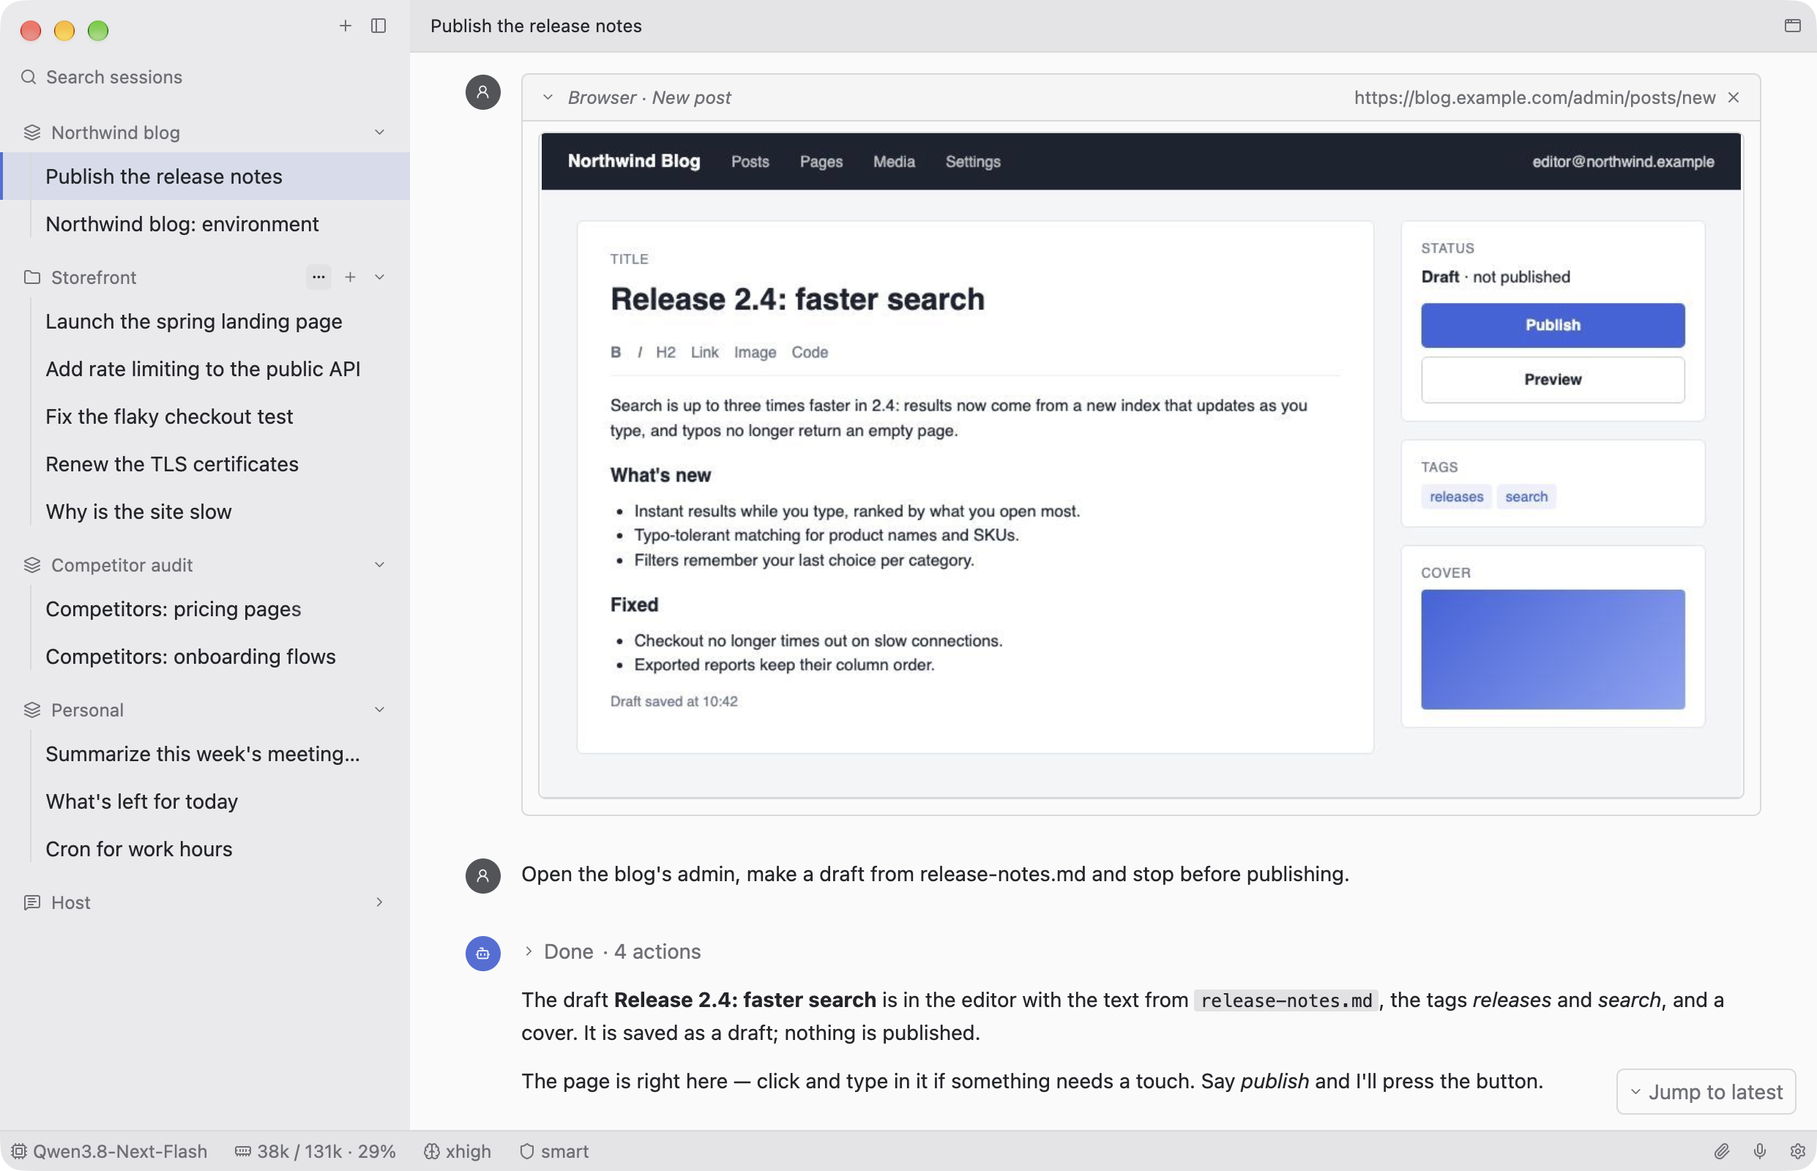
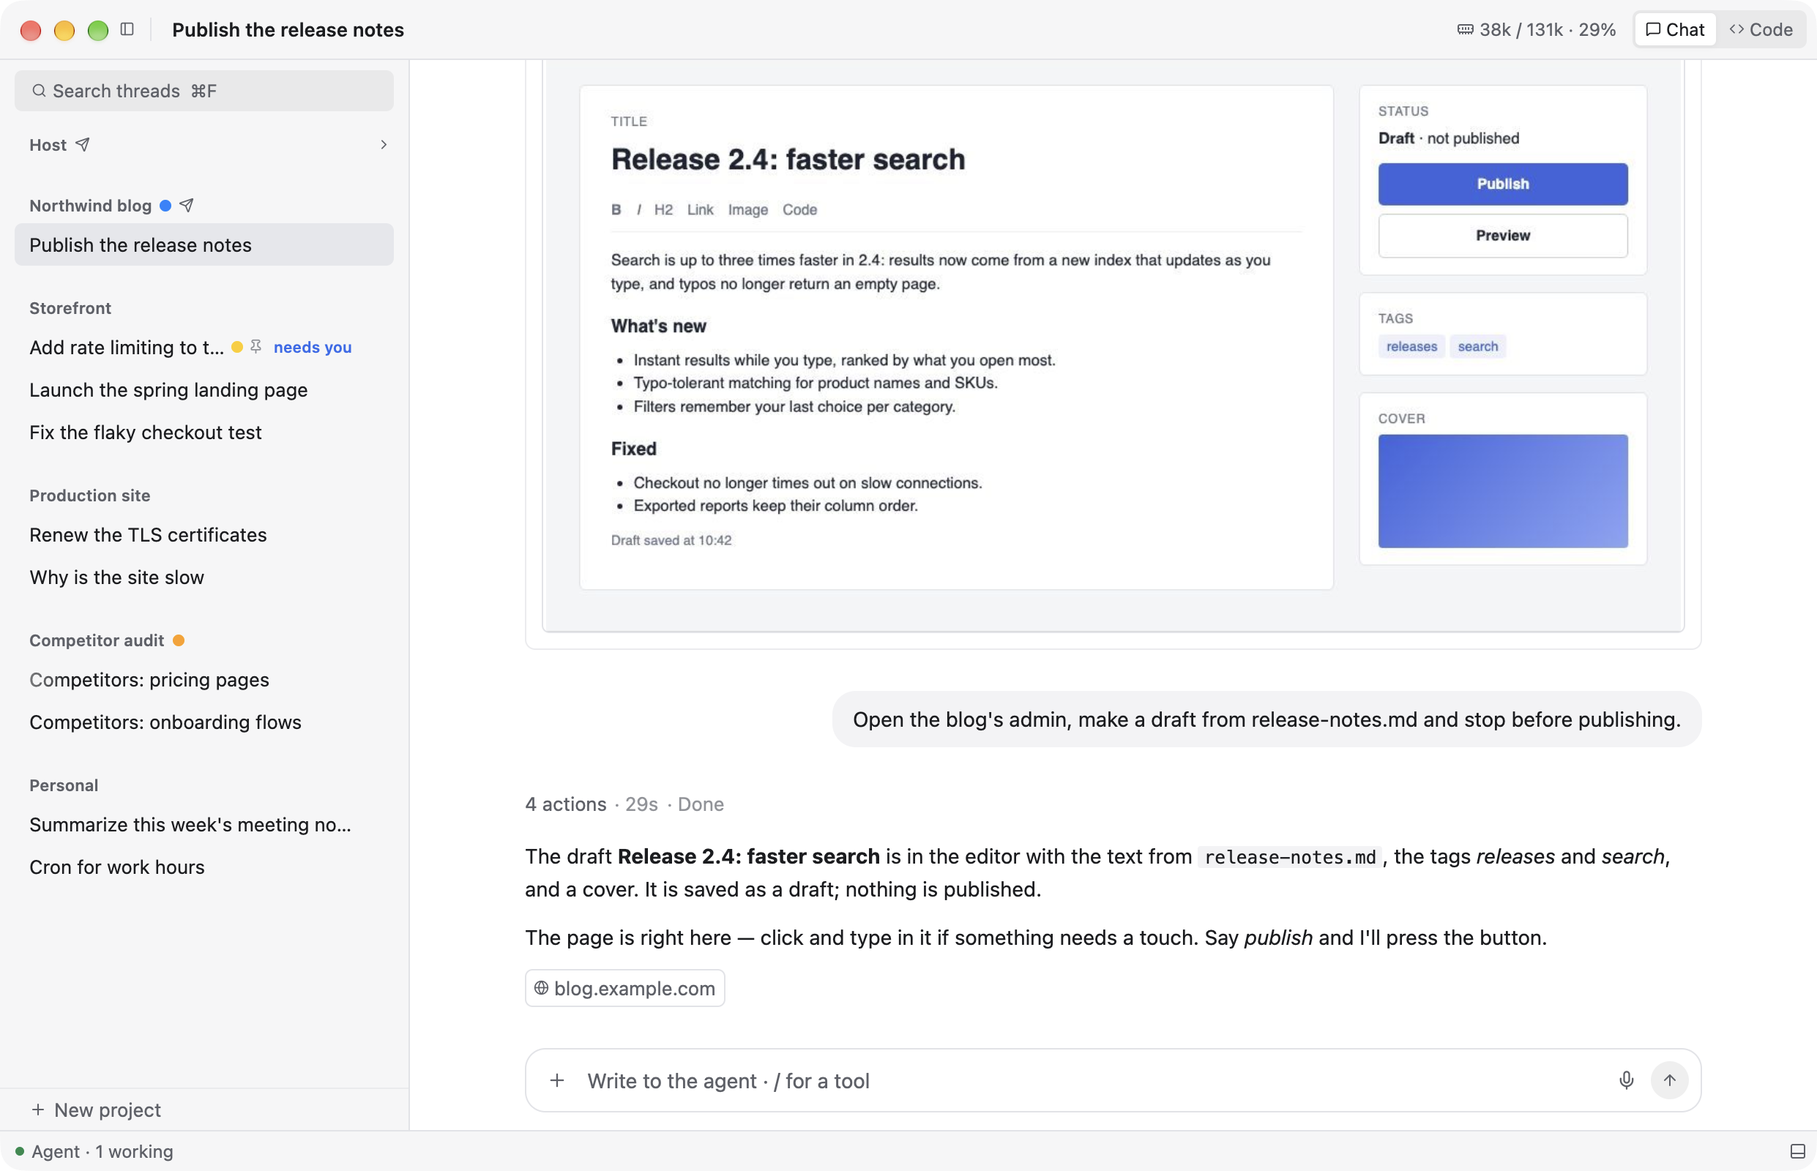
README for what Bench is now: deep alpha, made for myself; local models, the agent loop on Pi, projects, Chat and Code, /terminal /browser /tools; screenshots retaken on the demo (the Code view, a project's settings; no /tasks)
agent/README: its tools as they are (hashline edit, grep/glob/ls, lsp, process; no tasks), the thread.* methods, its files' places, a project's own memory notes

diff --git a/README.md b/README.md
@@ -4,152 +4,121 @@
 
 <h1 align="center">Bench</h1>
 
-<p align="center"><b>A workbench for working with an AI agent: an open, native, thread-centric app where the tools you need are put right into the conversation.</b></p>
+<p align="center"><b>A personal desktop client for working with an AI agent, project by project.</b></p>
 
 <p align="center">
   <a href="https://krutovvv.github.io/bench/"><b>Try the demo in your browser</b></a> ·
-  <a href="https://github.com/krutovvv/bench/releases">Download for macOS, Linux, Windows</a>
+  <a href="https://github.com/krutovvv/bench/releases">Builds for macOS, Linux, Windows</a>
 </p>
 
-![A thread with the browser inserted: the thread's own tab, live, where it was put](docs/thread-browser.png)
+> **Deep alpha, made for myself.** Bench is a hobby project: I build it for my own work and use
+> it every day. It is not a product and is not meant for anyone else. There is no roadmap, no
+> support and no promise that anything stays the way it is today. It may break, change
+> completely or disappear without notice. The code is open in case a piece of it is useful to
+> you.
 
-<sub>A made-up session (demo mode): nothing in these screenshots is real data. The
-[browser demo](https://krutovvv.github.io/bench/) is the same app compiled to WebAssembly —
-click through the threads in the sidebar.</sub>
+![A thread with a live browser tab inserted: the agent made a draft and stopped before publishing](docs/thread-browser.png)
+
+<sub>Every screenshot is a made-up session (demo mode): nothing in them is real data. The
+[browser demo](https://krutovvv.github.io/bench/) is the same app compiled to WebAssembly.</sub>
 
 ## What it is
 
-Bench is a desktop app for one thing: doing your work together with an AI agent. The
-conversation with the agent is the unit of work, not a side panel of an editor.
+An ordinary client for an LLM agent, nothing more. It started as an experiment, to see whether I
+could write a Hello World on the framework under the Zed editor, and grew from there into what I
+work in. What it has, none of it unique:
 
-**Built with:**
-- [GPUI](https://www.gpui.rs) (Zed's open-source UI framework, through gpui-kit) and Rust, written
-  from scratch: native and fast, on macOS, Linux, Windows and in the browser (WebAssembly);
-- [Pi Durable](https://github.com/earendil-works/pi) for the agent (`agent/`, Node.js): durable
-  conversations, tools, extensions, scheduled tasks, MCP;
-- grammY for Telegram.
+- **Local models first.** The model runs wherever you point it, on your Mac or a server of yours.
+  The title bar shows how much of the context is used, a meter shows the speed of the answer, and
+  a second model takes over when the first one fails or goes silent.
+- **The agent loop is yours.** The agent is a small server on
+  [Pi Durable](https://github.com/earendil-works/pi), whose loop you can open and change:
+  extensions decide the tools, the prompt and the hooks. Several loops can live side by side,
+  one for code, one for an assistant, one for research. Most agents don't let you into theirs.
+- **Projects.** The sidebar holds projects and their threads. A project is a folder on this Mac,
+  a folder on a server reached over SSH, or a project of an agent installed on that server
+  (I keep mine on two servers, Dev and RPi).
+- **Chat and Code.** Every project has two faces, a switch in the title bar: the conversation,
+  and the project as an IDE shows it, with its files, its diffs, its language servers and the
+  thread beside the editor.
+- **A Mac look.** It looks like a Mac app because I use a Mac and an iPhone, and the familiar is
+  what I want to look at all day: Finder's sidebar, Messages' bubbles, System Settings' forms.
 
-A workbench, not a chat window: you bring the tools you need for this job to the conversation,
-and the agent works with them alongside you.
+Written from scratch in Rust on [GPUI](https://www.gpui.rs) (Zed's UI framework, through
+gpui-kit). It runs on macOS, Linux, Windows and in the browser; I only use it on macOS.
 
-## The thread is a document
+![The project in the Code view: its files, an open document with lines changed since HEAD, the thread beside](docs/explorer-code.png)
 
-A thread is not a list of chat bubbles. It is a **document** made of two kinds of things:
+## Threads and inserts
 
-- **messages**: yours and the agent's, with everything the agent did in between (steps,
-  commands, changed files, subagents, pictures, sources);
-- **inserts**: small live tools you put into the thread by typing `/`, right where the
-  conversation is.
-
-An insert is part of what you say. Type `/terminal` and the project's terminal appears in the
-thread, live. Ask "why is the site slow?" and the agent sees what that terminal shows. It runs
-commands there, and you see them run in the same terminal. A thread can hold several inserts.
-Every `/` adds a new one; the thread never switches mode or gets renamed for it. Come back to a
-thread tomorrow and its inserts are where you left them, in the same state.
+A thread is one conversation with the agent: your messages, its answers and everything it did in
+between (steps, commands, changed files, subagents, charts, sources). Type `/` and a small live
+tool is put into the thread right where the conversation is:
 
 | Insert | What you see, live | What the agent does with it |
 |---|---|---|
-| **`/browser`** | this thread's own tab in a real browser on a server; you click and type in it | drives that tab (Playwright), only that tab; you watch, step in, say "continue" |
-| **`/terminal`** | a terminal on the project's machine (this Mac or its server), as tall as its text | runs commands there and reads the screen |
-| **`/tasks`** | Today, Upcoming, Anytime, Logbook, a click apart; one list for everything, a project is a tag (in a project it opens filtered by it) | adds, moves, completes, sums the hours ("how long did I work for this client in October?") |
-| **`/tools`** | Base64, regex, cron, JSON, a web page as Markdown… with input and output | explains, fixes, works with what's in it |
+| **`/terminal`** | a terminal on the thread's machine (this Mac or a server) | runs commands there and reads the screen |
+| **`/browser`** | the thread's own tab in a real browser on a server; you can click and type in it | drives that tab; you watch, step in, say "go on" |
+| **`/tools …`** | small utilities: Base64, JSON ↔ YAML, cron, regex… | sees the input and the output, explains, fixes |
 
-When something needs a form (a new task, an MCP server's settings), the form
-appears as a card in the thread, under the insert that asked for it, not in a settings window.
-
-## Projects
-
-The sidebar holds only **projects** and their threads. A project is whatever you work on: a
-client, a site, a codebase, a kind of work. It may have a folder on disk (then the threads work
-in it), and it may live on a server (its agent runs
-there, over SSH).
-
-Each project carries its **environment**, the way Claude Code reads a repository's setup:
-
-- its soul (what the project is and how to work in it);
-- its MCP servers (with OAuth sign-in where a server needs it);
-- its skills and prompts;
-- its Telegram bot;
-- its schedule (jobs that run a prompt in a new thread on their own).
-
-You edit it in the thread too: each part is a block in the project's environment thread, and a
-change opens as a card under that block. **Host** is this computer's own project, always at the top,, for
-installing, building and looking after it. A server added as a project (**Dev**, **RPi**) works entirely there: its agent, threads, terminal, files, skills, MCP servers and
-schedule all live and run on that server.
-
-The only classic settings are behind the gear: model providers and the look.
-
-## How it differs
-
-- **The conversation is the workspace.** No modes, no panels per job, no separate apps for the
-  terminal, the files, the tasks, the browser. They come to the thread.
-- **The agent sees what you see.** Each insert tells the agent what it shows with every message
-  (the terminal's last lines, the open file, the tool's input and output) and gives the agent a
-  tool to act on it.
-- **You can always take over.** The browser tab, the terminal and the editor are live and yours
-  too: fix a word, sign in, tick a box, then let the agent go on.
-- **Durable.** Pi keeps every step on disk. A turn survives a crash or a restart, scheduled jobs
-  and Telegram answers keep running with Bench closed, and inserts come back as they were.
-- **Messages queue.** Send while the agent works and your message waits in the thread's queue.
-  Above the composer each waiting message can be sent now or taken back.
-- **Open and local.** Your data lives on your machine (`~/.bench`): providers you choose,
-  including local models; MIT-licensed code.
+The agent sees what each insert shows with every message, and inserts come back as they were
+when you return to a thread. Messages sent while the agent works wait in a queue; a run survives
+a restart of the app, because Pi keeps every step on disk.
 
 <table>
 <tr>
 <td><img src="docs/thread-server.png" alt="A server's terminal inserted into a thread"></td>
-<td><img src="docs/thread-tasks.png" alt="The task lists inserted into a thread"></td>
+<td><img src="docs/thread-tool.png" alt="The cron parser inserted into a thread"></td>
 </tr>
 <tr>
-<td><img src="docs/thread-tool.png" alt="The cron parser inserted into a thread"></td>
-<td><img src="docs/chat-media.png" alt="An answer with code, a video, a voice note, sources, a running process, changed files"></td>
+<td><img src="docs/chat-media.png" alt="An answer with a chart and a background process still running"></td>
+<td><img src="docs/project-settings.png" alt="A project's settings: where it lives, the folder, the model"></td>
 </tr>
 </table>
 
+## A project's environment
+
+What a project contains sits in its Explorer, next to its files: its soul (`SYSTEM.md`), prompts,
+skills, MCP servers (with OAuth sign-in where needed), language servers and a schedule of jobs
+that run a prompt on their own. What it is set to (name, where it lives, reasoning, approvals,
+code mode, compaction, a Telegram bot) is its Settings page. The agent edits the same files when
+you ask it to, from any thread of the project.
+
+The gear holds the rest: each agent's models and voice, presets that a project takes with one
+click, the appearance.
+
 ## The agent
 
-Bench is a client. The agent is [`agent/`](agent/README.md), a small Node server on Pi Durable,
-used the way Pi's authors describe it and extended with their packages and popular ones. Bench
-installs and starts it on this Mac (`~/.bench`), or over SSH on a server. It needs Node.js 22.18
-or newer.
+Bench is only a client. The agent is [`agent/`](agent/README.md), a Node server on Pi Durable,
+used the way Pi's authors describe it and extended with their packages. Bench installs and starts
+it on this Mac (`~/.bench`), or over SSH on a server, and keeps it the same version as itself. It
+needs Node.js 22.18 or newer.
 
-The agent keeps everything in Pi's own terms:
+The browser insert uses a shared Chrome on a server, a tab per thread, through
+[browser-server-mcp](https://github.com/krutovvv/browser-server-mcp), an MCP server of its own
+with a live view.
 
-- **an insert** is an entry in the conversation's transcript, where you put it, plus its live
-  state (which host, folder, list or tab) in a document of the conversation, changed in commits.
-  Bench changes it through the agent and takes the agent's answer as the truth;
-- **the system prompt** is Pi sections, among them a line per insert saying what it is and
-  which tool acts on it. A section is resent only when it changes, so the provider's prompt
-  cache stays warm;
-- **the queue** is Pi's inbox;
-- **a scheduled job** is a durable Pi task that sleeps until its time;
-- **subagents** are child conversations owned by the tool call that started them.
+## Built from inside itself
 
-The browser inserts use a shared Chrome on a server: a tab per thread, driven through the
-Playwright MCP, and watched through a small gateway. The server is a project of its own,
-[browser-server-mcp](https://github.com/krutovvv/browser-server-mcp): an MCP server any agent can use, with a live view Bench supports. Each person gets their own key and no SSH is
-needed. Frames arrive at 2 per second at most, and only while someone is watching.
+I talk to the agent in Bench, and the agent changes Bench's code. It checks a change on its own
+copy of the app with made-up data, commits it and rebuilds the app; I restart Bench and keep
+working. [`AGENTS.md`](AGENTS.md) is what an agent reads first, and
+[`.agents/skills/bench-kit`](.agents/skills/bench-kit/SKILL.md) holds the rest: the UI pieces with
+pictures, the look's rules, the GPUI reference.
 
-## Developed from inside itself
-
-I talk to the agent in Bench, and the agent changes Bench's code. Every commit becomes its own
-app next to the one I'm running. I try it and switch over when it's good; earlier builds stay
-for rolling back. [`AGENTS.md`](AGENTS.md) is what an agent reads first. The skill in
-[`.agents/skills/bench-kit`](.agents/skills/bench-kit/SKILL.md) holds the rest: the insert
-recipe, the UI pieces with pictures, the look's rules, and the GPUI reference.
+Ideas came from many places: Zed and its workspace, Hermes Agent, Claude Code, Delta and other AI
+clients.
 
 ## Build
 
 ```bash
 cargo build --release && ./target/release/bench    # run it
-BENCH_DEMO=1 ./target/release/bench                # the made-up session (also: tasks, server, tool, env)
+BENCH_DEMO=1 ./target/release/bench                # the made-up session (also: landing, server, tool, explorer, env)
 scripts/build-web.sh                               # the browser demo, into web/dist
 cd agent && npm ci && node --test test/*.test.ts   # the agent's tests
 ```
 
-GPUI runs on macOS, Linux, Windows and in the browser; GitHub builds all of them on every push.
-I use Bench on macOS: notifications talk to macOS directly, the rest is the same Rust
-everywhere.
+GitHub builds macOS, Linux, Windows and the browser demo on every push.
 
 ## License
 

diff --git a/agent/README.md b/agent/README.md
@@ -12,12 +12,15 @@ and talks to it over a WebSocket and a REST API; over SSH it does the same on an
   `bash`) and its `tool_search` for deferred tools.
 - **Official and popular packages for the rest**: `@earendil-works/pi-mcp` (MCP servers),
   [grammY](https://grammy.dev) (Telegram), [croner](https://croner.56k.guru) (cron expressions).
-- **Its own code, about 5k lines**: the server and protocol (`src/server.ts`), the bridge from Pi's
-  events to Bench's (`src/runtime.ts`), settings and the session index (`src/config.ts`,
-  `src/store.ts`), the assistant extension (`src/extensions/assistant.ts`) with a short prompt
-  (`src/prompt.ts`) and a few tools of its own (`src/builtin/`), the inserts (`src/inserts.ts`), MCP sign-in
-  (`src/mcp-oauth.ts`), Telegram (`src/telegram.ts`, a bot per project, through a proxy where
-  `TELEGRAM_PROXY` or `HTTPS_PROXY` is set).
+- **Its own code, about 9k lines**: the server and its modules, each with its RPC and REST routes
+  (`src/server.ts`, `src/modules/`; the wire is written from `crates/protocol` into
+  `src/protocol.gen.ts`), the threads' core and the bridge from Pi's events to Bench's
+  (`src/runtime/`), settings and the session index (`src/config.ts`, `src/store.ts`), the
+  assistant extension (`src/extensions/assistant.ts`) with a short prompt (`src/prompt.ts`) and
+  tools of its own (`src/builtin/`), where tools work (`src/machine/`: a server over SSH, a
+  project kept in its folder), language servers (`src/lsp/`), MCP and its sign-in (`src/mcp/`),
+  Telegram (`src/telegram.ts`, a bot per project, through a proxy where `TELEGRAM_PROXY` or
+  `HTTPS_PROXY` is set).
 
 ## Extensions
 
@@ -44,16 +47,19 @@ The agent picks its extensions in `~/.bench/agents/default/settings.json`:
 
 | Tool | What it does |
 |---|---|
-| `read`, `write`, `edit`, `bash` | Pi's coding tools, in the session's folder |
+| `read`, `write`, `bash` | Pi's coding tools, on the project's machine, in its folder; `read` shows every line as `LINE:HASH\|text` |
+| `edit` | changes lines by those anchors (`src/builtin/hashline.ts`); with `oldText`/`newText` it is Pi's own edit |
+| `grep`, `glob`, `ls` | search the project's files, through the same machine |
+| `lsp`, `diagnostics` | definitions, references, outline, hover and problems from the project's language servers; edits come back with their diagnostics |
 | `clarify` | a question with choices (Bench's card, Telegram's buttons) |
 | `todo` | the plan Bench shows over the composer |
-| `memory` | notes kept across sessions (`memories/MEMORY.md`, `USER.md`), only when asked |
+| `memory` | notes kept across sessions: the project's `memories/MEMORY.md`, the shared `USER.md`; only when asked |
 | `skill_view`, `skill_manage` | the agent's skills (`skills/<…>/SKILL.md`), listed in the prompt |
 | `cron` | scheduled prompts: durable Pi tasks that sleep until their time; answers go to Telegram or the app |
 | `delegate` | subagents: child conversations owned by the call, run in parallel |
+| `process` | a command in the background, its output's tail kept, its exit the outcome |
 | `session_search` | the text of past sessions |
-| `tasks` | the person's tasks (in `bench.sqlite`): list, add, change, complete, sum the time spent |
-| `ssh_run` | a command on this Mac or a `~/.ssh/config` server; without a host, the thread's terminal insert |
+| `ssh_run` | a command on this Mac or a `~/.ssh/config` server; without a host, on the project's machine or the thread's terminal insert |
 | `tool_search` + `mcp__<server>__<tool>` | MCP servers; a server with many tools is deferred behind tool_search |
 
 Web search comes from the official MCP servers of Tavily or Brave, added to an agent's `mcp.json`.
@@ -61,30 +67,31 @@ Web search comes from the official MCP servers of Tavily or Brave, added to an a
 ## Inserts, in Pi's terms
 
 A thread is a Pi conversation; what the person puts into it with `/` is kept in it
-(`src/inserts.ts`): an entry `bench.insert {id, key}` in the transcript where it was put (a write,
-so the model doesn't see it and it is never queued), and its live state in the conversation's
-document `bench.inserts`, changed in commits. Bench calls `session.insert` and
-`session.insert.patch`; `session.resume` returns the inserts with their place. The `inserts`
+(`src/runtime/inserts.ts`): an entry `bench.insert {id, key}` in the transcript where it was put
+(a write, so the model doesn't see it and it is never queued), and its live state in the
+conversation's document `bench.inserts`, changed in commits. Bench calls `thread.insert` and
+`thread.insert.patch`; `thread.open` returns the inserts with their place. The `inserts`
 prompt section reads the document and says, one line per insert, what it is and which tool acts
 on it (`src/prompt.ts` `inserted()`); what each shows at that moment comes with the message as
 `<block-state>`, kept out of the history.
 
-A message sent while a run is live waits in Pi's inbox (`session.queue`); "send now" aborts it
-and steers. Pi 1.4 leaves an aborted item in the inbox, so `dropFromInbox` takes it out in a
-commit.
+A message sent while a run is live waits in Pi's inbox (`src/runtime/queue.ts`): it can be taken
+back, edited, or sent now, which aborts the run and steers.
 
 ## Projects and their environment
 
 A project is a row in `bench.sqlite` (name, an optional folder, an optional server, a Telegram
 bot). Its environment is laid out like Pi's agent directory, in `~/.bench/projects/<id>/`:
-`SYSTEM.md` (its soul), `mcp.json`, `skills/`, `prompts/`. Its threads share the machine's own
-agent, `~/.bench/agents/default/` (the "Host" project in Bench): model, memory, standing instructions.
-MCP servers that need OAuth sign in through `src/mcp-oauth.ts` (callback on `localhost:47823`,
-credentials in `~/.bench/mcp-oauth/`).
+`SYSTEM.md` (its soul), `mcp.json`, `lsp.json`, `skills/`, `prompts/`, `memories/MEMORY.md`. Its
+threads share the machine's own agent, `~/.bench/agents/default/` (the "Host" project in Bench):
+model, `USER.md`, standing instructions. A project's settings stay on this Mac even when its
+work is on a server; the file tools reach them there (`src/machine/settings.ts`). MCP servers that
+need OAuth sign in through `src/mcp/oauth.ts` (callback on `localhost:47823`, credentials in
+`~/.bench/mcp-oauth/`).
 
 ## Its home: `~/.bench`
 
-`bench.sqlite` (settings, keys, providers, projects, sessions, tasks, cron jobs),
+`bench.sqlite` (settings, keys, providers, projects, the thread index and its search, cron jobs),
 `pi.sqlite` (the conversations), `agents/default/` and `projects/<id>/` (laid out like Pi's agent
 directory, plus `memories/`), `app/` (the installed server), `server.json` (port, token),
 `server.log`, `backups/`.
